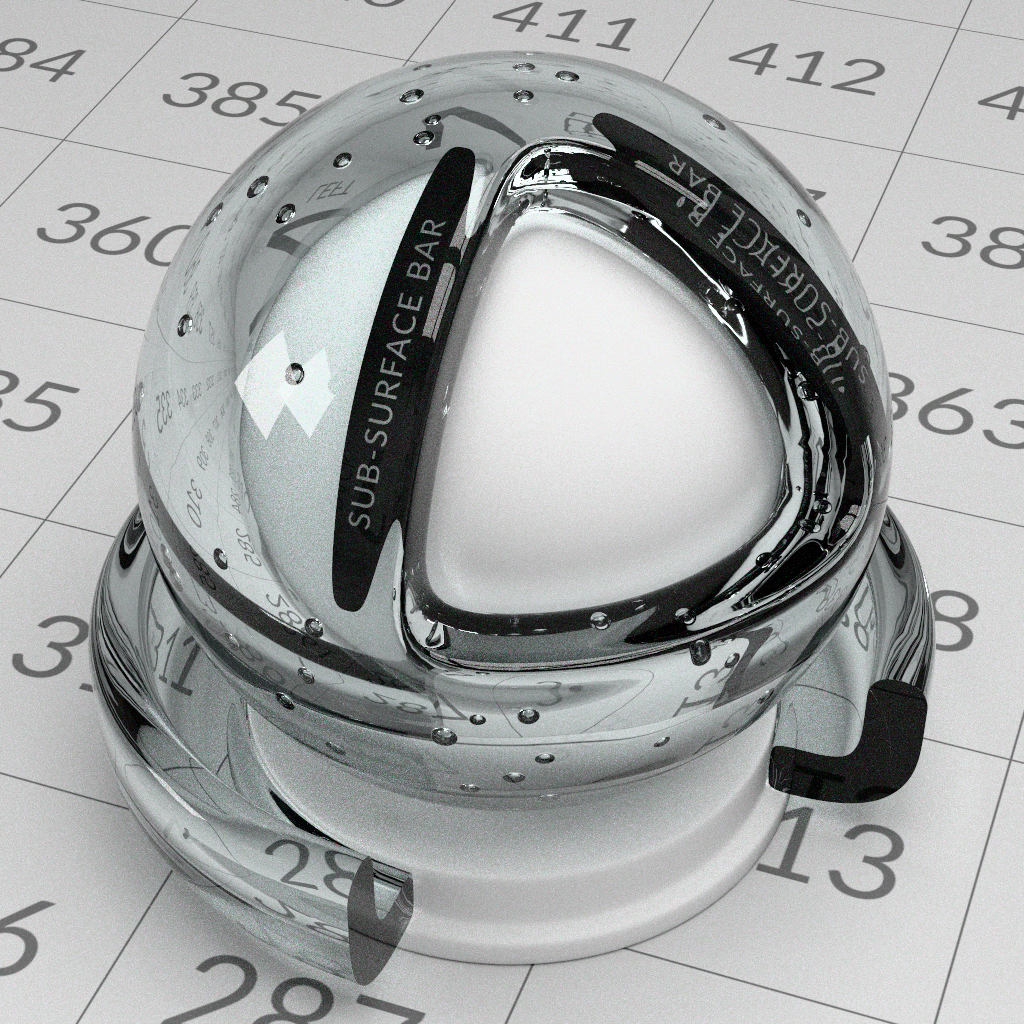
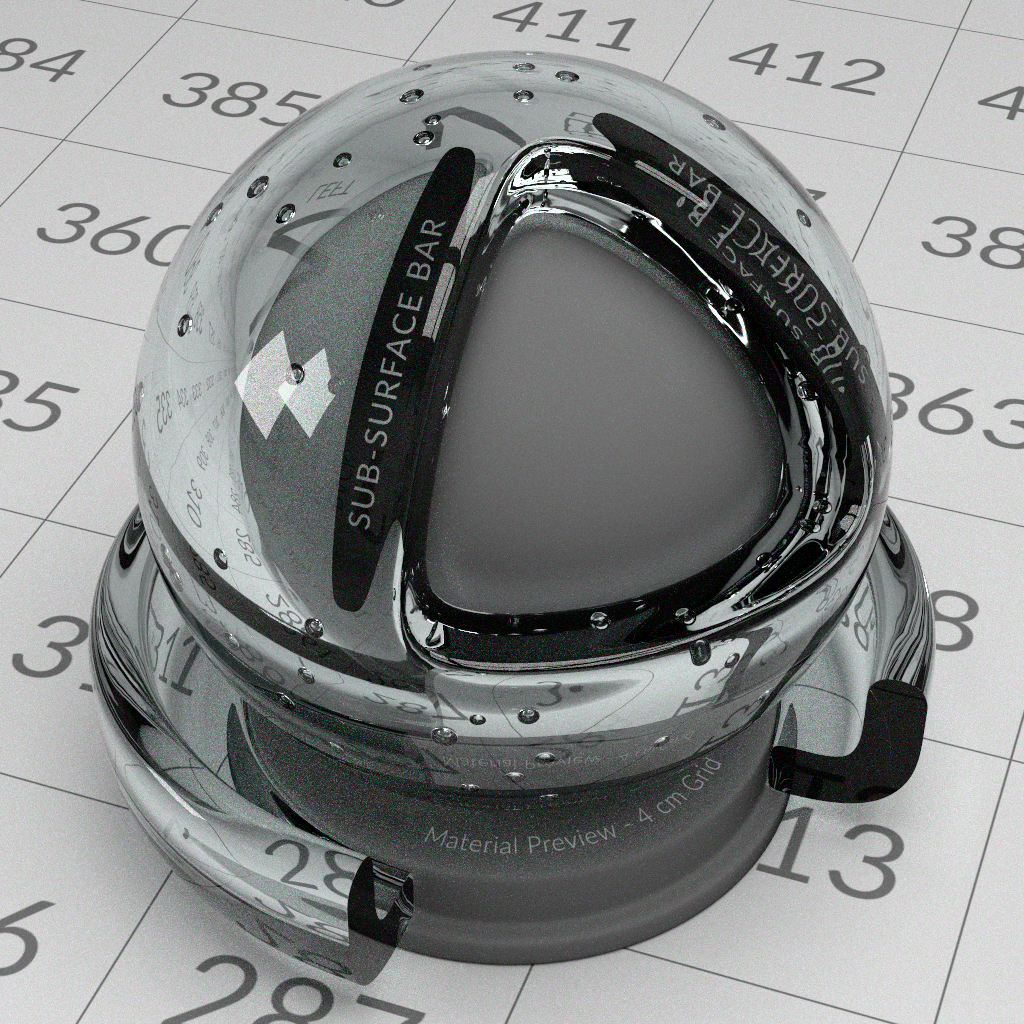
Give the shader ball's plinth back its lettering, and name why it lost it
The StandardShaderBall's base and internal sphere rendered as flat untextured
grey. They should carry "Material Preview - 4 cm Grid", which the asset's own
thumbnail shows around the plinth.

Nothing was falling back. Both prims are bound to materials/neutral, no input was
pruned, no texture failed, and no warning was raised. hdClaude shaded exactly what
was wired.

What was wired: neutral publishes a NodeGraph rather than a shader, and a
material_model variantSet on the enclosing materials Scope chooses which of the
graph's two surface shaders its output reaches. The asset defaults it to
OpenPBRSurface, and the two variants are not equivalent. mtlxstandard_surface1 has
base_color connected to mtlximage1 and the correct EXR; open_pbr_surface1 has no
base_color connection at all, so under the asset's own default the map is never
reached and the whole reachable network is emission from an image node with no
file plus a zero specular weight.

Checked rather than argued: flipping material_model to standard_surface on the
unmodified asset reaches the map with no override of any kind, and everything
else about the network is identical. That is what says the OpenPBR variant is
short exactly one connection, and that the override reproduces the asset's intent
rather than inventing a look. sss_bars and uvgrid have both of their variants
wired; only neutral's OpenPBR one is not.

Corrected by a local `over` in each of the four gallery entrypoints, which already
[…]

Changed region(s): [[0.125, 0.1562, 0.8125, 0.9688]]

diff --git a/gallery.md b/gallery.md
@@ -97,10 +97,10 @@ and a device-loss investigation cannot start without it. hdCodex spent days on a
 |---|---:|---:|---|---|---|
[13 lines of base64/hex data omitted]
@@ -254,6 +254,66 @@ every texture was uploaded upside down, and the ground and all five walls
 author their UVs face-varying, which hdClaude used to reject and shade from
 barycentrics instead.
 
+> **Asset note, shared by all four shader balls — for the asset's authors.**
+>
+> `materials/neutral`, which the StandardShaderBall binds to the **base** and to
+> the **internal sphere**, ships `maps/neutral.ACEScg.exr` — the
+> "Material Preview - 4 cm Grid" lettering the asset's own
+> `thumbnails/standard_shader_ball_scene.png` shows around the plinth. Its
+> MaterialX surface never reads it.
+>
+> `neutral`'s `outputs:mtlx:surface` points at a **NodeGraph**, not at a shader,
+> and that nodegraph holds *two* surface shaders. Which one its `outputs:out`
+> reaches is chosen by a `material_model` variantSet on the enclosing
+> `materials` Scope, whose values are `standard_surface` and `OpenPBRSurface`.
+> The asset defaults it to `OpenPBRSurface`.
+>
+> The two variants of `neutral` are not equivalent, and they are meant to be:
+>
+> - `standard_surface` selects `mtlxstandard_surface1`, which has
+>   `inputs:base_color.connect -> mtlximage1`, the correct EXR. The plinth is
+>   lettered.
+> - `OpenPBRSurface` selects `open_pbr_surface1`, which has **no `base_color`
+>   connection at all**. The whole of its reachable network is `emission_color`
+>   and `emission_luminance`, both fed from `mtlximage2` — an `ND_image_vector3`
+>   with no `inputs:file` authored — plus `specular_weight = 0`. `mtlximage1` is
+>   not reached, and the plinth is blank.
+>
+> Checked, rather than argued: flipping `material_model` to `standard_surface` on
+> the unmodified asset reaches `mtlximage1` and the map, with no override of any
+> kind. The two variants are otherwise identical — same emission wiring, same
+> zero specular — so the OpenPBR one is short exactly one connection.
+>
+> The sibling materials say the same thing from the other side. `sss_bars` and
+> `uvgrid` wire `base_color -> mtlximage1` on **both** of their surface shaders,
+> so both of their variants are complete; only `neutral`'s OpenPBR one is not.
+> And `neutral`'s third representation, `outputs:surface` ->
+> `usdpreview/usdpreviewsurface1`, reads the map into `diffuseColor`. So a
+> renderer taking the `mtlx` context under the asset's own default selection is
+> the only one that loses the lettering, which is what hdClaude did until
+> 2026-09-08.
+>
+> A second, smaller thing in the same material: `mtlximage2` has no `inputs:file`
+> and is wired to both emission inputs. hdClaude reads such a node's *default*
+> rather than the magenta missing-texture placeholder — a node with no file is an
+> ordinary authored value, not a broken asset reference — so it contributes
+> nothing and nothing warns about it.
+>
+> **What this repository does about it.** The four `gallery/shader_ball_*.usda`
+> entrypoints sublayer the asset and author the one missing connection as a local
+> `over` on `neutral/mtlx/open_pbr_surface1`. The vendored asset is not edited,
+> and removing those four overrides reproduces it as published.
+>
+> Selecting the `standard_surface` variant instead would also produce the
+> lettering, and is not what this gallery does. That variantSet is on the
+> `materials` Scope, so it would switch `neutral`, `sss_bars` and `uvgrid` to a
+> different surface model while the example material, the box and the walls stay
+> on `OpenPBRSurface` — three separate `material_model` variantSets, all of which
+> the asset defaults to OpenPBR. These scenes are meant to render the asset in
+> the configuration it publishes; the override keeps that and repairs the single
+> connection, where flipping the variant would work around it and hide it.
+
+
 ### StandardShaderBall Glass
 
 ![The StandardShaderBall in clear glass, with the printed backdrop visible through and reflected in it](gallery/shader_ball_glass.jpg)
@@ -267,10 +327,15 @@ The scene where four hero wavelengths earn their cost.
 render_claude.bat --imageWidth 1024 --colorCorrectionMode disabled --camera camera gallery\shader_ball_glass.usda build\gallery-linear\shader_ball_glass.exr
 ```
 
-**Current state.** Transmits. It rendered opaque black until the integrator
-stopped evaluating refractions with the reflection closure, which is the defect
-this scene exists to catch. Dispersion is still absent -- transport is RGB
-until phase 6 -- so the glass is colourless where it should split.
+**Current state.** Transmits, and since the plinth carries its authored
+lettering the refracted image through the ball is legible rather than a blank
+grey -- which is most of what this scene is for. It rendered opaque black until
+the integrator stopped evaluating refractions with the reflection closure, which
+is the defect this scene exists to catch.
+
+The plinth and the internal sphere are shaded through a local override; see the
+asset note under [StandardShaderBall Gold](#standardshaderball-gold).
+
 
 ### StandardShaderBall BubbleGum
 
@@ -304,6 +369,10 @@ walk's collision cap is reached rather than avoided where the mean free path is
 small against the object -- which biases where the light leaves, not how much of
 it there is.
 
+The plinth and the internal sphere are shaded through a local override; see the
+asset note under [StandardShaderBall Gold](#standardshaderball-gold).
+
+
 ### StandardShaderBall Honey
 
 ![The StandardShaderBall in amber honey on the same printed backdrop, golden where the shell is thin and deepening to red where the light passes through the most material](gallery/shader_ball_honey.jpg)
@@ -332,6 +401,10 @@ as an extinction and an albedo rather than as two coefficients fitted to spectra
 separately, which is what deepened the amber on 2026-09-08. There is still no
 next-event estimation at a scattering vertex, so the medium is lit by what
 enters it and the estimate is noisier than an opaque surface's.
+
+The plinth and the internal sphere are shaded through a local override; see the
+asset note under [StandardShaderBall Gold](#standardshaderball-gold).
+
 
 ### Pixar's KitchenSet
 

diff --git a/docs/implementation-notes.md b/docs/implementation-notes.md
@@ -4302,3 +4302,93 @@ separate finding, left alone here so this change stays attributable. And the
 walk's 256-collision cap is reached rather than avoided by a material whose mean
 free path is small against the object, which biases the exit point and not the
 energy.
+
+---
+
+## 2026-09-08 -- The plinth had a label, and one connection was missing
+
+The StandardShaderBall's base and its internal sphere rendered as flat untextured
+grey. They should carry lettering -- "Material Preview - 4 cm Grid" -- and the
+asset's own `thumbnails/standard_shader_ball_scene.png` shows it.
+
+**Nothing was falling back.** Both prims are bound, resolved off the composed
+stage rather than read out of the variant-laden layers:
+
+    .../shader_ball/neutral_objects/base  -> /materials/neutral
+    .../shader_ball/neutral_objects/core  -> /materials/neutral
+
+and no input was pruned, no texture failed to load, and no warning was raised on
+any of the four shader-ball renders. hdClaude shaded exactly what was wired.
+
+**What was wired.** `neutral`'s `outputs:mtlx:surface` points at a *NodeGraph*
+rather than at a shader, and that nodegraph holds two surface shaders. Which one
+its `outputs:out` reaches is chosen by a `material_model` variantSet on the
+enclosing `materials` Scope -- `standard_surface` or `OpenPBRSurface` -- which
+the asset defaults to `OpenPBRSurface`.
+
+The two variants of the same material are not equivalent. Under
+`OpenPBRSurface` the whole reachable network is
+
+    emission_color     <- mtlxconvert1 <- mtlximage2   (ND_image_vector3, no file)
+    emission_luminance <- mtlxextract1 <- mtlximage2
+    specular_weight     = 0.0
+    specular_roughness  = 0.0
+
+with no `base_color` connection at all, so `mtlximage1` -- which holds
+`@../maps/neutral.ACEScg.exr@` -- is never reached. Under `standard_surface`,
+`mtlxstandard_surface1` has `inputs:base_color.connect -> mtlximage1` and the
+map arrives.
+
+**Checked rather than argued.** Flipping `material_model` to `standard_surface`
+on the unmodified asset, with no override of any kind, reaches `mtlximage1` and
+the EXR; everything else about the network is the same, down to the emission
+wiring and the zero specular. That is what says the OpenPBR variant is short
+exactly one connection rather than the material being intended flat, and it is
+also what says the override below reproduces the asset's own intent instead of
+inventing a look.
+
+The sibling materials say it from the other side: `sss_bars` and `uvgrid` wire
+`base_color -> mtlximage1` on *both* of their surface shaders, so both of their
+variants are complete. Only `neutral`'s OpenPBR one is not. And a third
+representation, `outputs:surface -> usdpreview/usdpreviewsurface1`, reads the map
+into `diffuseColor`, so the `mtlx` context under the asset's default selection is
+the only one that loses the lettering.
+
+**Fixed by override, not by editing, and not by flipping the variant.** The four
+`gallery/shader_ball_*.usda` entrypoints already sublayer the asset, so each now
+authors the one missing connection as a local `over` on
+`materials/neutral/mtlx/open_pbr_surface1`. The vendored asset is untouched and
+removing the four overrides reproduces it as published.
+
+Selecting `standard_surface` would also produce the lettering and is the wrong
+lever. That variantSet sits on the `materials` Scope, so it would move `neutral`,
+`sss_bars` and `uvgrid` to a different surface model while the example material,
+the box and the walls stayed on OpenPBR -- there are three separate
+`material_model` variantSets in this asset and all three default to
+`OpenPBRSurface`. These scenes exist to render the asset in the configuration it
+publishes. The override keeps that configuration and repairs the connection;
+flipping the variant would route around the defect and hide it.
+
+Raised with the asset's authors; the finding is written up in gallery.md beside
+the images so it travels with them.
+
+**What it changes.** All four shader balls, by an RMS of 0.17 to 0.20 over a
+quarter to two fifths of their pixels, which is a base and an inner sphere going
+from white to the map's neutral grey and gaining their lettering. The glass ball
+is the one that gains the most: the refracted image through the shell was a blank
+grey and is now the legible plinth and the "SUB-SURFACE BAR" text, which is
+most of what a glass test image is for. The bubblegum ball stops being lit by a
+white plinth bouncing pink light back into it.
+
+**What was checked and left alone.** `mtlximage2` still has no `inputs:file` and
+is still wired to both emission inputs. hdClaude reads such a node's default
+rather than the magenta placeholder -- a node with no file is an ordinary
+authored value and not a broken asset reference, which is the decision of
+2026-09-06 -- so it contributes nothing and warns about nothing. That is the
+asset's business to finish, and it is recorded rather than patched.
+
+The map is named `.ACEScg.exr` and the asset declares no `colorSpace` on the
+attribute, so it is read as scene-linear like every other EXR in this gallery,
+including `ground.ACEScg.exr` and `sss_bars.ACEScg.exr` which were already in
+use. Honouring ACEScg primaries would need colour management this renderer does
+not have, and this change neither introduces that gap nor widens it.
